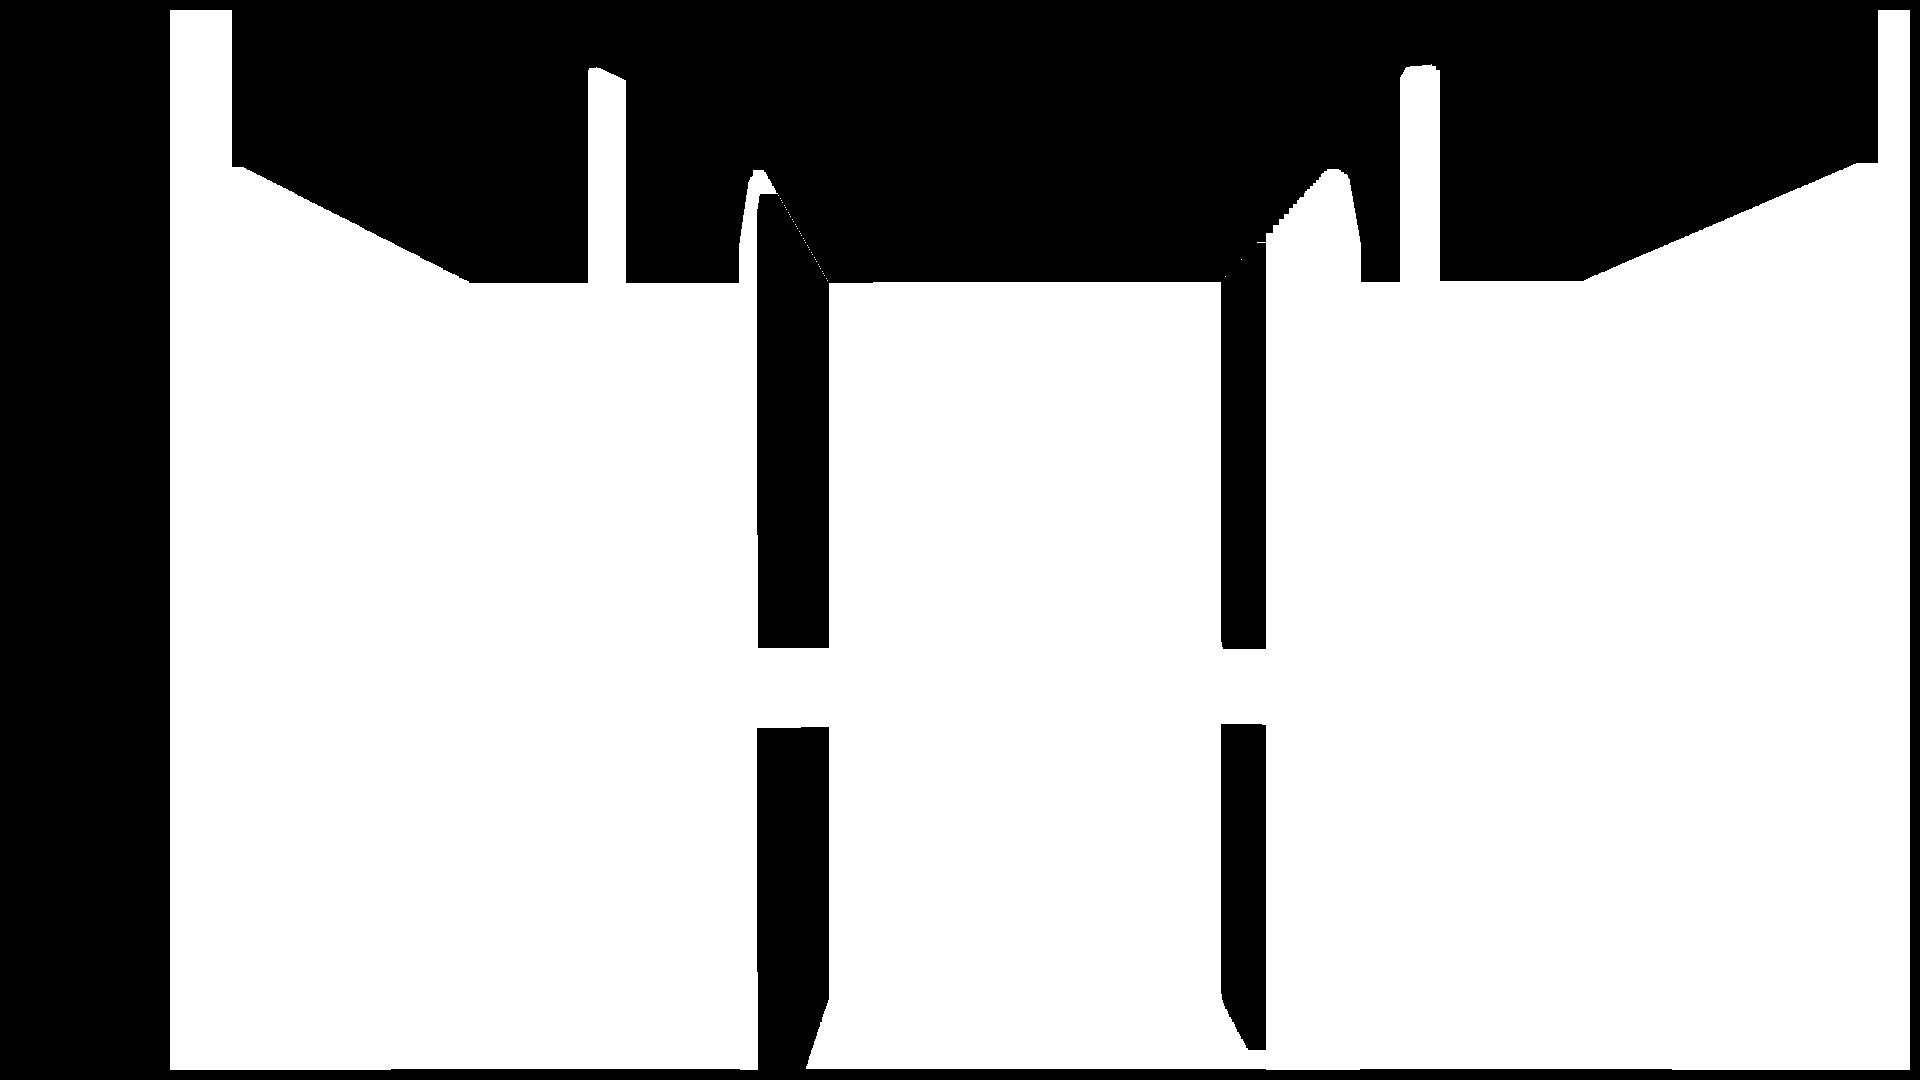
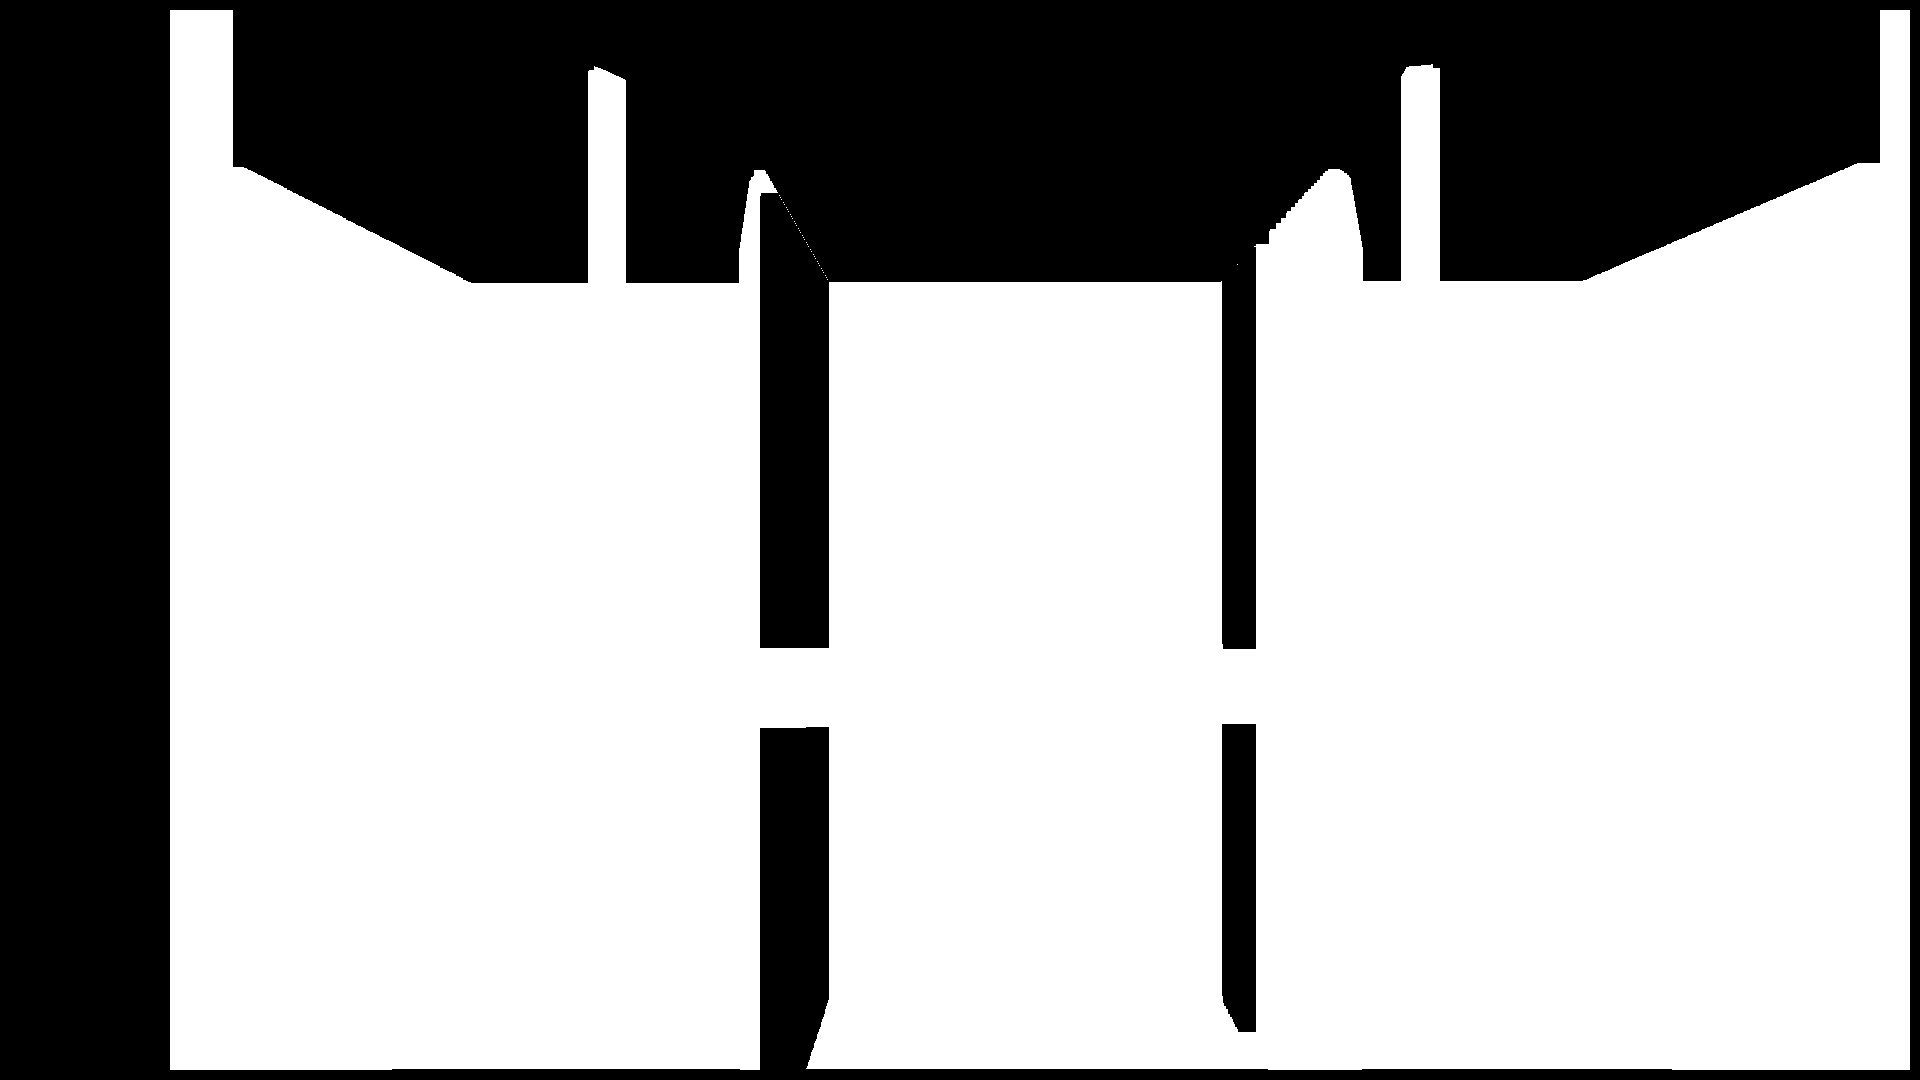
add mask_generate and now debugging

Changed region(s): [[0.625, 0.9472, 0.6562, 0.9778]]

diff --git a/baxter_vision_example/scripts/mask_compare.py b/baxter_vision_example/scripts/mask_compare.py
@@ -8,7 +8,7 @@ import rospy
 import rospkg
 import sys
 from sensor_msgs.msg import Image
-from std_msgs.msg import Int32
+from std_msgs.msg import Int16
 
 class mask_compare():
 
@@ -22,9 +22,9 @@ class mask_compare():
         self.threshold_y = 100
         self.min_x_delta = 0
         self.min_y_delta = 0
-        rospy.init_node('mask_compare_server',anonymous=True)
-        self.pub_delta_x = rospy.Publisher('mask_compare/output/delta_x', Int32,queue_size=1)
-        self.pub_delta_y = rospy.Publisher('mask_compare/output/delta_y', Int32,queue_size=1)
+        rospy.init_node('mask_compare',anonymous=True)
+        self.pub_delta_x = rospy.Publisher('mask_compare/output/delta_x', Int16,queue_size=1)
+        self.pub_delta_y = rospy.Publisher('mask_compare/output/delta_y', Int16,queue_size=1)
         rospy.Subscriber("split_fore_background/output/bg_mask",Image,self.callback)
         rospy.spin()
 
@@ -37,39 +37,39 @@ class mask_compare():
         min_y_delta = 0
     
         for delta_y in range(0,self.threshold_y):
-            # for positive delta_y
+            # for negative delta_y
             sub_y_value = 0 
             for cur_y in range(0,len(self.bg_mask_cur_y)-delta_y):
                 sub_y_value = sub_y_value + abs(int(self.bg_mask_cur_y[cur_y][0]) - int(self.bg_mask_prv_y[cur_y+delta_y][0]))
             sub_y_value = sub_y_value / (len(self.bg_mask_cur_y)-delta_y)
             if min_y > sub_y_value:
                 min_y = sub_y_value
-                self.min_y_delta = delta_y
-           # for negative delta_y
+                self.min_y_delta = -delta_y
+           # for positive delta_y
             sub_y_value = 0 
             for prv_y in range(0,len(self.bg_mask_prv_y)-delta_y):
                 sub_y_value += abs(int(self.bg_mask_cur_y[prv_y+delta_y][0]) - int(self.bg_mask_prv_y[prv_y][0]))
             sub_y_value = sub_y_value / (len(self.bg_mask_prv_y)-delta_y)
             if min_y > sub_y_value:
                 min_y = sub_y_value
-                self.min_y_delta = -delta_y
+                self.min_y_delta = delta_y
         for delta_x in range(0,self.threshold_x):
-            # for positive delta_x
+            # for negative delta_x
             sub_x_value = 0 
             for cur_x in range(0,len(self.bg_mask_cur_x)-delta_x):
                 sub_x_value += abs(int(self.bg_mask_cur_x[cur_x][0]) - int(self.bg_mask_prv_x[cur_x+delta_x][0]))
             sub_x_value = sub_x_value / (len(self.bg_mask_cur_x)-delta_x)
             if min_x > sub_x_value:
                 min_x = sub_x_value
-                self.min_x_delta = delta_x
-            # for negative delta_x
+                self.min_x_delta = -delta_x
+            # for positive delta_x
             sub_x_value = 0
             for prv_x in range(0,len(self.bg_mask_prv_x)-delta_x):
                 sub_x_value += abs(int(self.bg_mask_cur_x[prv_x+delta_x][0]) - int(self.bg_mask_prv_x[prv_x][0]))
             sub_x_value = sub_x_value / (len(self.bg_mask_prv_x)-delta_x)
             if min_x > sub_x_value:
                 min_x = sub_x_value
-                self.min_x_delta = -delta_x 
+                self.min_x_delta = delta_x 
         self.publish()
         print self.min_x_delta
         print self.min_y_delta

diff --git a/baxter_vision_example/scripts/mask_generate.py b/baxter_vision_example/scripts/mask_generate.py
@@ -1,0 +1,58 @@
+#!/usr/bin/env python
+# -*- coding: utf-8 -*-
+
+import numpy as np
+import cv_bridge
+import cv2
+import rospy
+import rospkg
+import sys
+from sensor_msgs.msg import Image
+from std_msgs.msg import Int16
+
+class mask_generate():
+    def __init__(self):
+        self.bridge = cv_bridge.CvBridge()
+        self.rospack = rospkg.RosPack()
+        self.img_path = self.rospack.get_path('baxter_vision_example') + u"/data/fg.jpg" 
+        self.bg_prv = cv2.imread(self.img_path)
+        self.delta_x = 0
+        self.threshold = 50
+        rospy.init_node('mask_generate',anonymous=True)
+        rospy.Subscriber("split_fore_background/output/fg",Image,self.callback_bg)    
+        rospy.Subscriber("mask_compare/output/delta_x",Int16,self.callback_x)
+        rospy.spin()
+
+    def callback_bg(self,data):
+        self.bg_cur = self.bridge.imgmsg_to_cv2(data,data.encoding)
+        self.mask = self.compare_generate(self.bg_prv,self.bg_cur,self.delta_x)
+        self.mask_img_path = self.rospack.get_path('baxter_vision_example') + u"/data/mask.jpg" 
+        cv2.imwrite(self.mask_img_path,self.mask)
+
+    def callback_x(self,msg):
+        self.delta_x = msg.data
+
+    def compare_generate(self,img_prv,img_cur,delta_x):
+        mask = np.copy(np.array(img_cur))
+        for y in range(0,len(img_cur)):
+            for x in range(0,len(img_cur[0])):
+                if delta_x > 0:
+                    if x < len(img_cur[0]) - delta_x :
+                        if abs(int(img_cur[y][x][0]) -int(img_prv[y][x+delta_x][0])) < self.threshold:
+                            mask[y][x] = [255,255,255]
+                        else :
+                            mask[y][x] = [0,0,0]
+                    else :
+                        mask[y][x] = [0,0,0]
+                else:
+                    if x > -delta_x:
+                        if abs(int(img_cur[y][x][0]) - int(img_prv[y][x+delta_x][0])) < self.threshold:
+                            mask[y][x] = [255,255,255]
+                        else :
+                            mask[y][x] = [0,0,0]
+                    else:
+                        mask[y][x] = [0,0,0]
+        return mask
+
+if __name__ =='__main__':
+    mask_generator = mask_generate()

diff --git a/baxter_vision_example/scripts/save_mask.py b/baxter_vision_example/scripts/save_mask.py
@@ -39,7 +39,7 @@ def callback_fg(data):
 def image_saver():
     rospy.init_node('image_saver',anonymous=True)
     rospy.Subscriber("split_fore_background/output/bg_mask",Image,callback_bg_mask)
-    #rospy.Subscriber("split_fore_background/output/bg",Image,callback_bg)
+    rospy.Subscriber("split_fore_background/output/bg",Image,callback_bg)
     rospy.Subscriber("split_fore_background/output/fg_mask",Image,callback_fg_mask)
     rospy.Subscriber("split_fore_background/output/fg",Image,callback_fg)
     rospy.spin()
